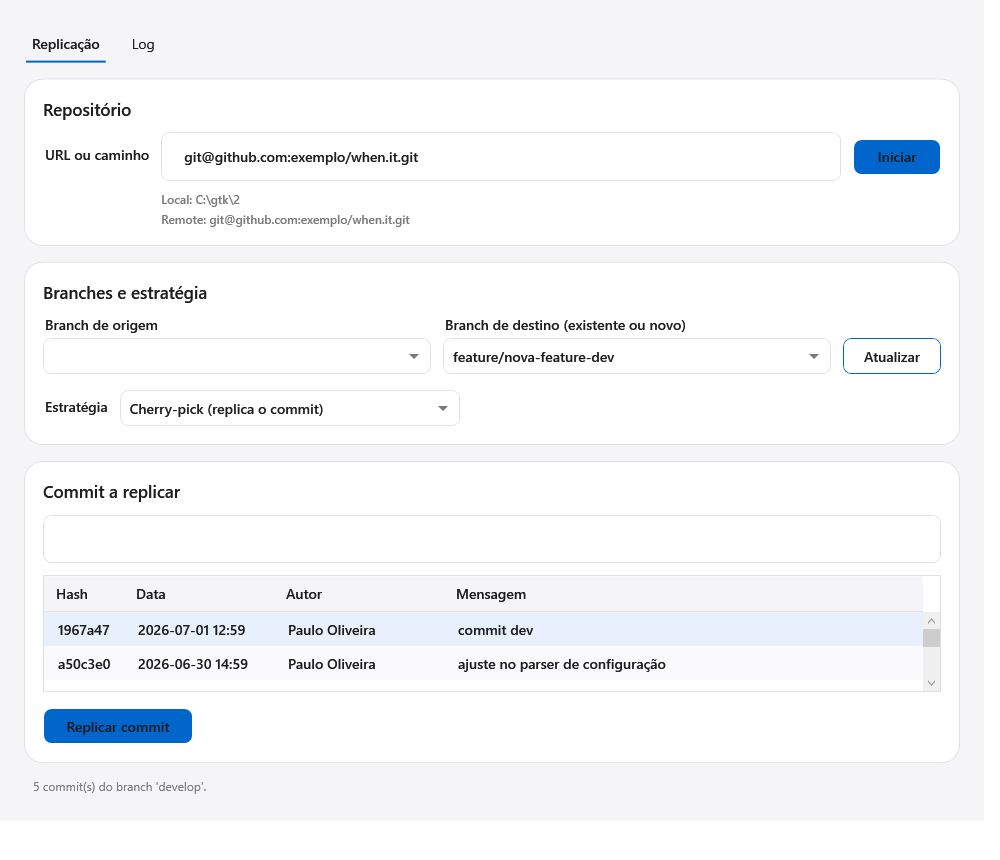
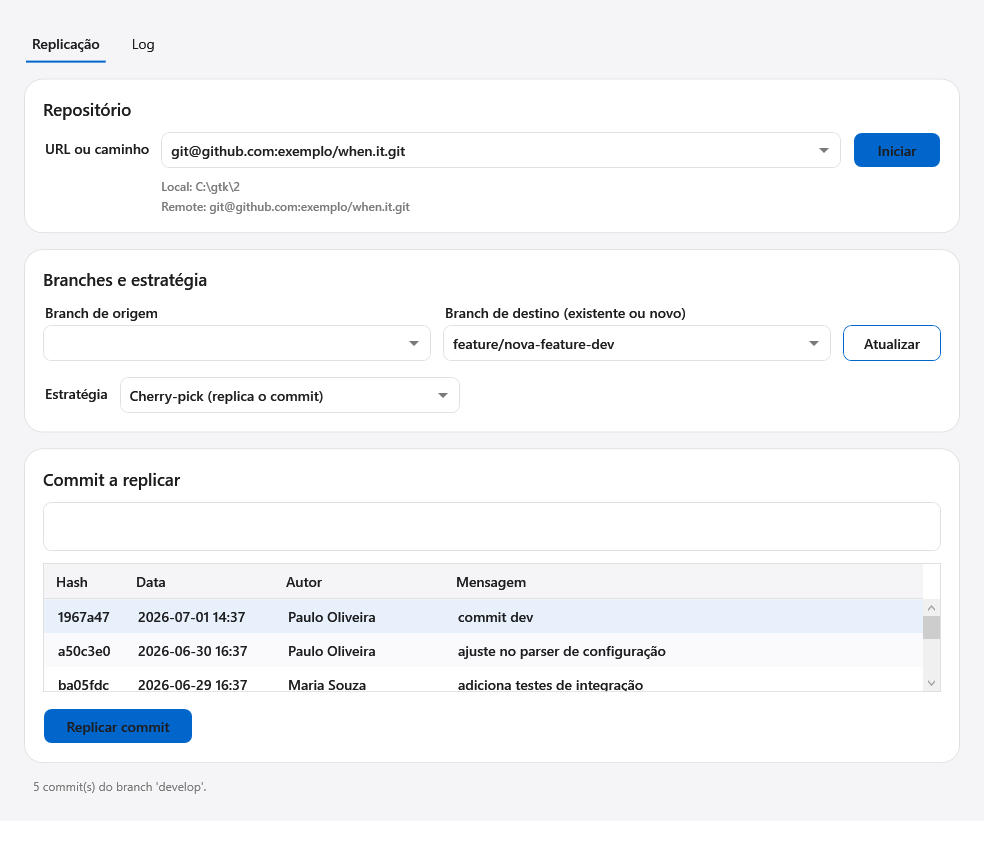
feat: campo de repositório como combo editável com histórico (MRU)
O campo "URL ou caminho" vira um ComboBox editável que lista os repositórios já
utilizados (URLs ou caminhos) e vem pré-preenchido com o último usado. O
histórico é persistido em %LOCALAPPDATA%\git.kit\recent-repositories.json e
atualizado a cada início bem-sucedido (URL ou local).

- Core: IRecentRepositories/RecentRepositories + model RecentRepositoriesIndex
- App.xaml.cs injeta o serviço; MainViewModel expõe RecentRepositories e
  registra a origem usada
- MainWindow: TextBox -> ComboBox editável
- Testes do histórico (MRU, dedup case-insensitive, persistência)
- README/manual (HTML+PDF+imagens) atualizados

diff --git a/src/GitKit.App/Views/MainWindow.xaml b/src/GitKit.App/Views/MainWindow.xaml
@@ -42,9 +42,11 @@
                             </Grid.RowDefinitions>
 
                             <Label Grid.Row="0" Grid.Column="0" Content="URL ou caminho" Margin="0,0,12,0" VerticalAlignment="Center" />
-                            <TextBox Grid.Row="0" Grid.Column="1" Margin="0,0,12,0"
-                                     ToolTip="Informe a URL de clone (https/ssh) ou o caminho de um repositório git local"
-                                     Text="{Binding RepositorySource, UpdateSourceTrigger=PropertyChanged}" />
+                            <ComboBox Grid.Row="0" Grid.Column="1" Margin="0,0,12,0"
+                                      IsEditable="True" IsTextSearchEnabled="False" StaysOpenOnEdit="True"
+                                      ItemsSource="{Binding RecentRepositories}"
+                                      ToolTip="Informe a URL de clone (https/ssh) ou o caminho de um repositório git local, ou selecione um já utilizado"
+                                      Text="{Binding RepositorySource, UpdateSourceTrigger=PropertyChanged}" />
                             <Button Grid.Row="0" Grid.Column="2" Content="Iniciar"
                                     Style="{StaticResource PrimaryButton}" Command="{Binding StartCommand}" />
 

diff --git a/docs/manual-do-usuario.html b/docs/manual-do-usuario.html
@@ -165,7 +165,9 @@ pedirá para você localizar o executável (<code>TortoiseGitProc.exe</code> ou
 <h2>4. Passo a passo da replicação</h2>
 
 <h3><span class="step">1</span> Informar o repositório</h3>
-<p>No campo <b>URL ou caminho</b>, informe uma das opções e clique em <b>Iniciar</b>:</p>
+<p>O campo <b>URL ou caminho</b> é uma lista editável: ele <b>guarda os repositórios já
+usados</b> e já vem <b>preenchido com o último</b>. Selecione um da lista ou informe uma
+nova origem e clique em <b>Iniciar</b>:</p>
 <ul>
   <li><b>URL</b> (https/ssh): o repositório é preparado via <b>cache local</b> — um espelho
       é criado na primeira vez e apenas <b>atualizado</b> nas seguintes; a pasta de trabalho

diff --git a/src/GitKit.Core/Services/RecentRepositories.cs b/src/GitKit.Core/Services/RecentRepositories.cs
@@ -1,0 +1,70 @@
+using System.Text;
+using System.Text.Json;
+using GitKit.Core.Models;
+
+namespace GitKit.Core.Services;
+
+/// <summary>
+/// Implementação de <see cref="IRecentRepositories"/> persistindo o histórico em
+/// um arquivo JSON (lista MRU, limitada a <see cref="MaxEntries"/> entradas).
+/// </summary>
+public sealed class RecentRepositories : IRecentRepositories
+{
+    private const int MaxEntries = 20;
+    private static readonly JsonSerializerOptions JsonOptions = new() { WriteIndented = true };
+    private static readonly UTF8Encoding Utf8NoBom = new(false);
+
+    private readonly string _filePath;
+
+    public RecentRepositories(string filePath) => _filePath = filePath;
+
+    public IReadOnlyList<string> GetAll() => Load().Sources;
+
+    public void Add(string source)
+    {
+        source = source?.Trim() ?? string.Empty;
+        if (source.Length == 0)
+            return;
+
+        var index = Load();
+        // Remove duplicata (case-insensitive) e coloca no topo como mais recente.
+        index.Sources.RemoveAll(s => string.Equals(s, source, StringComparison.OrdinalIgnoreCase));
+        index.Sources.Insert(0, source);
+        if (index.Sources.Count > MaxEntries)
+            index.Sources.RemoveRange(MaxEntries, index.Sources.Count - MaxEntries);
+
+        Save(index);
+    }
+
+    private RecentRepositoriesIndex Load()
+    {
+        try
+        {
+            if (File.Exists(_filePath))
+            {
+                var json = File.ReadAllText(_filePath, Utf8NoBom);
+                return JsonSerializer.Deserialize<RecentRepositoriesIndex>(json, JsonOptions) ?? new RecentRepositoriesIndex();
+            }
+        }
+        catch
+        {
+            // Arquivo corrompido → recomeça vazio.
+        }
+        return new RecentRepositoriesIndex();
+    }
+
+    private void Save(RecentRepositoriesIndex index)
+    {
+        try
+        {
+            var dir = Path.GetDirectoryName(_filePath);
+            if (!string.IsNullOrEmpty(dir))
+                Directory.CreateDirectory(dir);
+            File.WriteAllText(_filePath, JsonSerializer.Serialize(index, JsonOptions), Utf8NoBom);
+        }
+        catch
+        {
+            // Persistência é melhor-esforço.
+        }
+    }
+}

diff --git a/tests/GitKit.Core.Tests/RecentRepositoriesTests.cs b/tests/GitKit.Core.Tests/RecentRepositoriesTests.cs
@@ -1,0 +1,59 @@
+using GitKit.Core.Services;
+using Xunit;
+
+namespace GitKit.Core.Tests;
+
+public sealed class RecentRepositoriesTests
+{
+    private static (RecentRepositories recent, string file) New()
+    {
+        var dir = Path.Combine(Path.GetTempPath(), "git.kit-recent-" + Guid.NewGuid().ToString("N"));
+        Directory.CreateDirectory(dir);
+        return (new RecentRepositories(Path.Combine(dir, "recent.json")), dir);
+    }
+
+    [Fact]
+    public void Add_puts_most_recent_first_and_persists()
+    {
+        var (recent, dir) = New();
+        try
+        {
+            recent.Add("https://example.com/a.git");
+            recent.Add(@"C:\repos\local");
+            recent.Add("git@host:b.git");
+
+            var all = recent.GetAll();
+            Assert.Equal(new[] { "git@host:b.git", @"C:\repos\local", "https://example.com/a.git" }, all);
+
+            // Persistiu: uma nova instância lê o mesmo histórico.
+            var reopened = new RecentRepositories(Path.Combine(dir, "recent.json"));
+            Assert.Equal(all, reopened.GetAll());
+        }
+        finally
+        {
+            try { Directory.Delete(dir, recursive: true); } catch { }
+        }
+    }
+
+    [Fact]
+    public void Add_promotes_existing_without_duplicating()
+    {
+        var (recent, dir) = New();
+        try
+        {
+            recent.Add("https://example.com/a.git");
+            recent.Add("https://example.com/b.git");
+            // Reusar 'a' deve promovê-lo ao topo, sem duplicar (case-insensitive).
+            recent.Add("HTTPS://EXAMPLE.COM/A.GIT");
+
+            var all = recent.GetAll();
+            Assert.Equal(2, all.Count);
+            Assert.Equal("HTTPS://EXAMPLE.COM/A.GIT", all[0]);
+            Assert.Equal("https://example.com/b.git", all[1]);
+        }
+        finally
+        {
+            try { Directory.Delete(dir, recursive: true); } catch { }
+        }
+    }
+}

diff --git a/src/GitKit.App/ViewModels/MainViewModel.cs b/src/GitKit.App/ViewModels/MainViewModel.cs
@@ -21,6 +21,7 @@ public sealed class MainViewModel : ObservableObject
     private readonly IDialogService _dialogs;
     private readonly WorkspaceService _workspace;
     private readonly IRepositoryCache _cache;
+    private readonly IRecentRepositories _recent;
     private readonly StringBuilder _log = new();
 
     public MainViewModel(
@@ -28,13 +29,15 @@ public sealed class MainViewModel : ObservableObject
         ConflictResolutionCoordinator coordinator,
         IDialogService dialogs,
         WorkspaceService workspace,
-        IRepositoryCache cache)
+        IRepositoryCache cache,
+        IRecentRepositories recent)
     {
         _git = git;
         _coordinator = coordinator;
         _dialogs = dialogs;
         _workspace = workspace;
         _cache = cache;
+        _recent = recent;
 
         _git.CommandExecuted += OnGitCommandExecuted;
 
@@ -60,12 +63,33 @@ public sealed class MainViewModel : ObservableObject
         ReplicateCommand = new AsyncRelayCommand(ReplicateAsync, CanReplicate);
         PushCommand = new AsyncRelayCommand(PushAsync, () => !IsBusy && IsRepositoryReady && !string.IsNullOrWhiteSpace(PushableBranch));
         ResolveConflictsCommand = new AsyncRelayCommand(ShowConflictsWindowAsync, () => !IsBusy && PendingManualResolution && _pendingCommit is not null);
+
+        // Carrega o histórico e pré-preenche com o último repositório usado.
+        LoadRecentRepositories();
+        if (RecentRepositories.Count > 0)
+            RepositorySource = RecentRepositories[0];
+    }
+
+    private void LoadRecentRepositories()
+    {
+        RecentRepositories.Clear();
+        foreach (var source in _recent.GetAll())
+            RecentRepositories.Add(source);
+    }
+
+    // Registra a origem usada como a mais recente e reflete no combo.
+    private void RegisterRecentRepository(string source)
+    {
+        _recent.Add(source);
+        LoadRecentRepositories();
     }
 
     // ----- Coleções e opções -----
 
     public ObservableCollection<GitBranch> Branches { get; } = new();
     public ObservableCollection<GitCommit> Commits { get; } = new();
+    // Repositórios já utilizados (URLs/caminhos), do mais recente para o mais antigo.
+    public ObservableCollection<string> RecentRepositories { get; } = new();
     public IReadOnlyList<ReplicationModeOption> Modes { get; }
 
     // Views filtradas exibidas na UI. Os branches são filtrados pelo TEXTO DIGITADO
@@ -318,6 +342,7 @@ public sealed class MainViewModel : ObservableObject
             ResetSelections();
             RepositoryPath = target;
             RepositoryUrl = await _git.GetRemoteUrlAsync(target);
+            RegisterRecentRepository(url);
             StatusMessage = cachePath is not null
                 ? $"Repositório pronto (via cache) em {target}."
                 : $"Repositório clonado em {target}.";
@@ -371,6 +396,8 @@ public sealed class MainViewModel : ObservableObject
                 RepositoryUrl = path;
                 StatusMessage = $"Cópia de trabalho criada em {target} — o repositório original não tem remote; o push retornará a {path}.";
             }
+
+            RegisterRecentRepository(path);
 
             // Não faz fetch aqui: isso buscaria do remote real e poderia podar
             // refs locais recém-clonadas do caminho de origem.

diff --git a/src/GitKit.App/Screenshots/ScreenshotGenerator.cs b/src/GitKit.App/Screenshots/ScreenshotGenerator.cs
@@ -46,7 +46,7 @@ public static class ScreenshotGenerator
         var coordinator = new ConflictResolutionCoordinator(git, tortoise, dialogs);
 
         // ---- 1. Tela principal populada ----
-        var main = new MainViewModel(git, coordinator, dialogs, new WorkspaceService(), new FakeRepositoryCache());
+        var main = new MainViewModel(git, coordinator, dialogs, new WorkspaceService(), new FakeRepositoryCache(), new FakeRecentRepositories());
         main.RepositorySource = "[email redacted]:exemplo/when.it.git";
         main.StartCommand.Execute(null);
         Pump();
@@ -218,6 +218,18 @@ public static class ScreenshotGenerator
         // Sem cache na captura: o fluxo cai no clone direto (o FakeGitService responde).
         public Task<string?> EnsureCacheAsync(string repositoryUrl, CancellationToken ct = default)
             => Task.FromResult<string?>(null);
+    }
+
+    private sealed class FakeRecentRepositories : IRecentRepositories
+    {
+        public IReadOnlyList<string> GetAll() => new[]
+        {
+            "[email redacted]:exemplo/when.it.git",
+            "https://github.com/exemplo/outro-projeto.git",
+            @"C:\projetos\meu-repo-local",
+        };
+
+        public void Add(string source) { }
     }
 
     private sealed class FakeDialogs : IDialogService

diff --git a/src/GitKit.Core/Services/IRecentRepositories.cs b/src/GitKit.Core/Services/IRecentRepositories.cs
@@ -1,0 +1,14 @@
+namespace GitKit.Core.Services;
+
+/// <summary>
+/// Histórico persistente das origens de repositório já utilizadas (URLs ou
+/// caminhos locais), do mais recente para o mais antigo.
+/// </summary>
+public interface IRecentRepositories
+{
+    /// <summary>Lista as origens usadas, do mais recente para o mais antigo.</summary>
+    IReadOnlyList<string> GetAll();
+
+    /// <summary>Registra (ou promove) uma origem como a mais recente.</summary>
+    void Add(string source);
+}

diff --git a/src/GitKit.Core/Models/RecentRepositoriesIndex.cs b/src/GitKit.Core/Models/RecentRepositoriesIndex.cs
@@ -1,0 +1,10 @@
+namespace GitKit.Core.Models;
+
+/// <summary>
+/// Histórico (MRU) das origens de repositório já utilizadas — URLs de clone ou
+/// caminhos locais. A ordem da lista é do mais recente para o mais antigo.
+/// </summary>
+public sealed class RecentRepositoriesIndex
+{
+    public List<string> Sources { get; set; } = new();
+}

diff --git a/src/GitKit.App/App.xaml.cs b/src/GitKit.App/App.xaml.cs
@@ -47,11 +47,17 @@ public partial class App : Application
             "git.kit", "cache");
         var repositoryCache = new RepositoryCache(gitService, cacheRoot);
 
+        // Histórico de repositórios já utilizados (para o combo editável do repositório).
+        var recentPath = Path.Combine(
+            Environment.GetFolderPath(Environment.SpecialFolder.LocalApplicationData),
+            "git.kit", "recent-repositories.json");
+        var recentRepositories = new RecentRepositories(recentPath);
+
         var tortoise = new TortoiseGitLauncher();
         var dialogs = new DialogService();
         var coordinator = new ConflictResolutionCoordinator(gitService, tortoise, dialogs);
 
-        var viewModel = new MainViewModel(gitService, coordinator, dialogs, workspace, repositoryCache);
+        var viewModel = new MainViewModel(gitService, coordinator, dialogs, workspace, repositoryCache, recentRepositories);
 
         var window = new MainWindow { DataContext = viewModel };
         window.Show();

diff --git a/README.md b/README.md
@@ -7,7 +7,9 @@ conflitos no **TortoiseGit**.
 
 ## Funcionalidades
 
-1. Informar uma **URL** ou um **caminho local** e clicar em **Iniciar**:
+1. Informar uma **URL** ou um **caminho local** e clicar em **Iniciar**. O campo é um
+   **combo editável** que **lista os repositórios já utilizados** e vem **pré-preenchido com
+   o último** (histórico em `%LOCALAPPDATA%\git.kit\recent-repositories.json`):
    - **URL** → o repositório é preparado via **cache local**: na primeira vez cria-se um
      **espelho** (`git clone --mirror`) em `%LOCALAPPDATA%\git.kit\cache`, registrado no
      índice `cache-index.json`; nas próximas vezes o espelho é **atualizado**